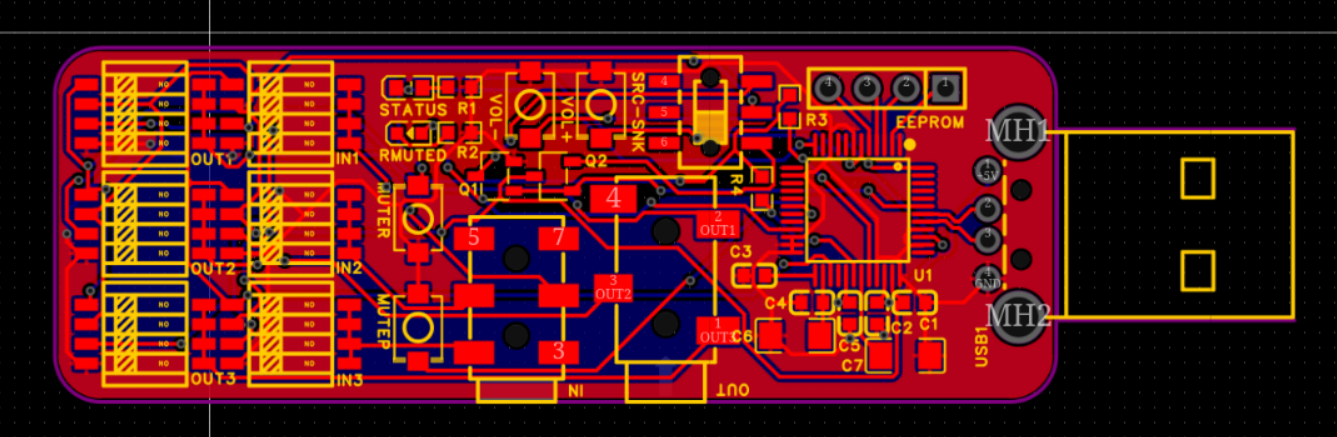
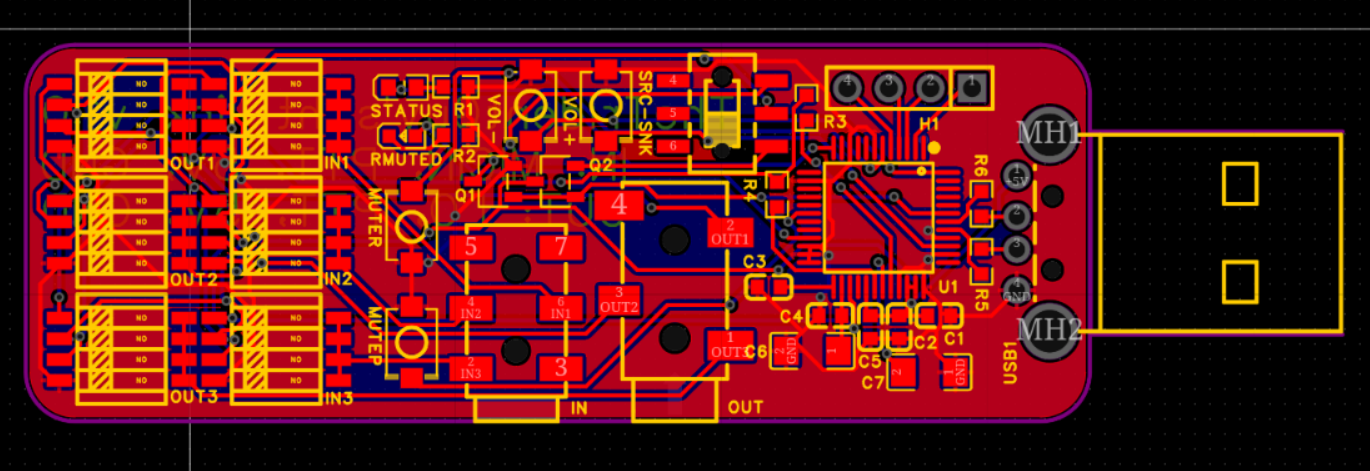
images + readme update

diff --git a/README.md b/README.md
@@ -1,6 +1,6 @@
 # ht-link
 ## Open-source usb adapter that allows you to link cheap handheld radios to a computer for internet-linked radio applications.
-This USB adapter acts as an audio device and has a 2.5mm and a 3.5mm audio jack for connection to a handheld radio such as the UV-K6. The current version includes several switches for configuring how each pin of each jack is wired. I created this after going to the middle of nowhere for a week and realizing how many cool things could be made with a radio connected to a computer, for example a VOIP phone, or a slack link.
+This USB adapter acts as an audio device and has a 2.5mm and a 3.5mm audio jack for connection to a handheld radio such as the UV-K6. I created this after going to the middle of nowhere for a week and realizing how many cool things could be made with a radio connected to a computer, for example a VOIP phone over ham radio, or a slack link. It's based on the Cmedia CM108B, and the current version includes six DIP switches for configuring exactly how audio is routed. It also makes use of one of the CM108B's GPIO pins for PTT, which can be source or sink, based on a switch setting. I'm not making a case for now, since this probably isn't the final form of the PCB, and I expect to iterate it at least one more time. I also prefer the simple bare-board aesthetic for this project.
 ### PCB:
 ![](images/pcb4.png)
 ### Schematic: 
